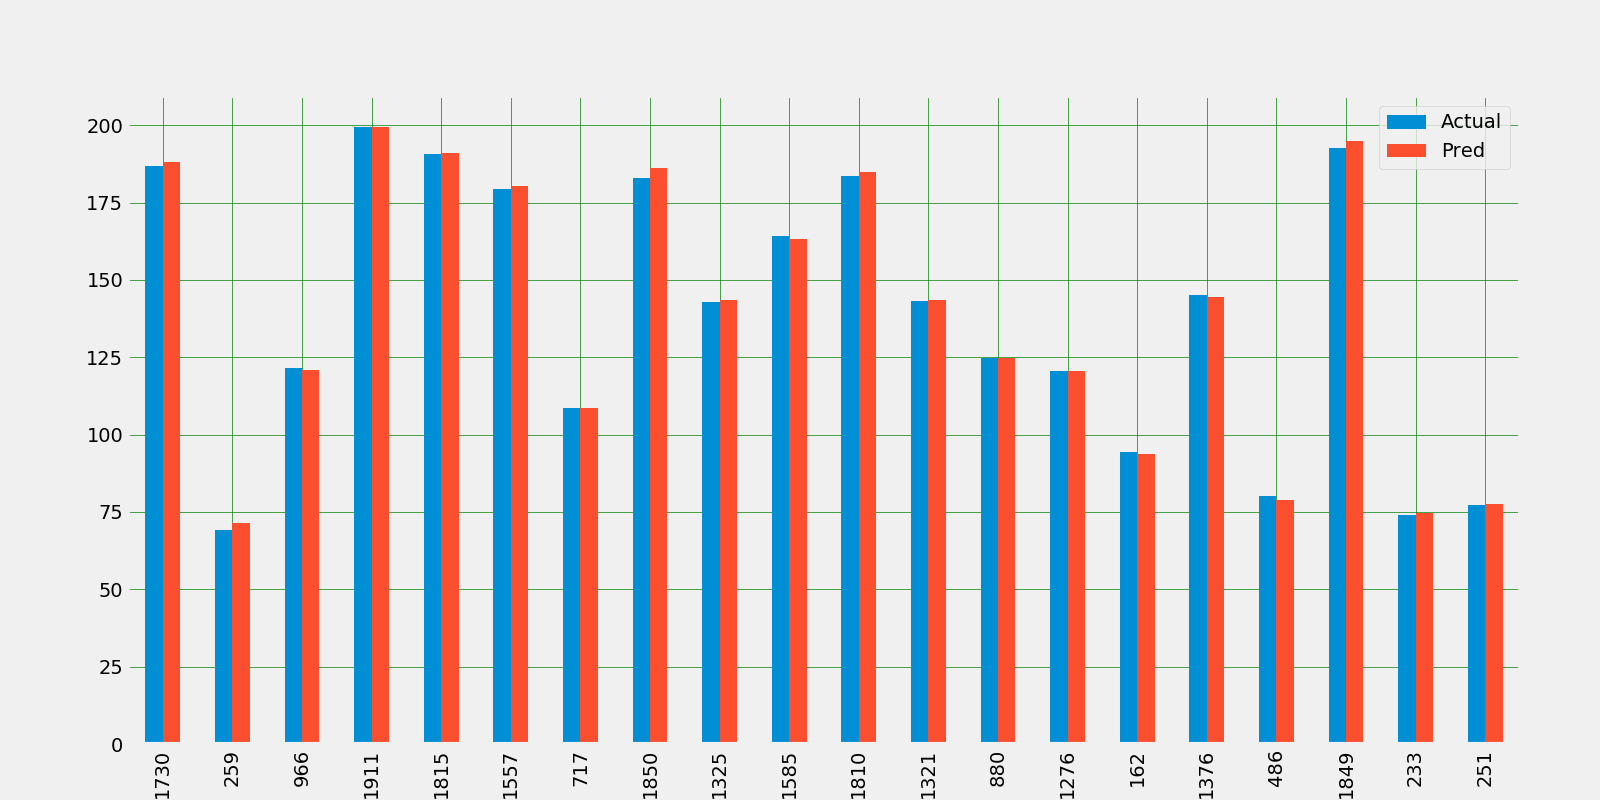
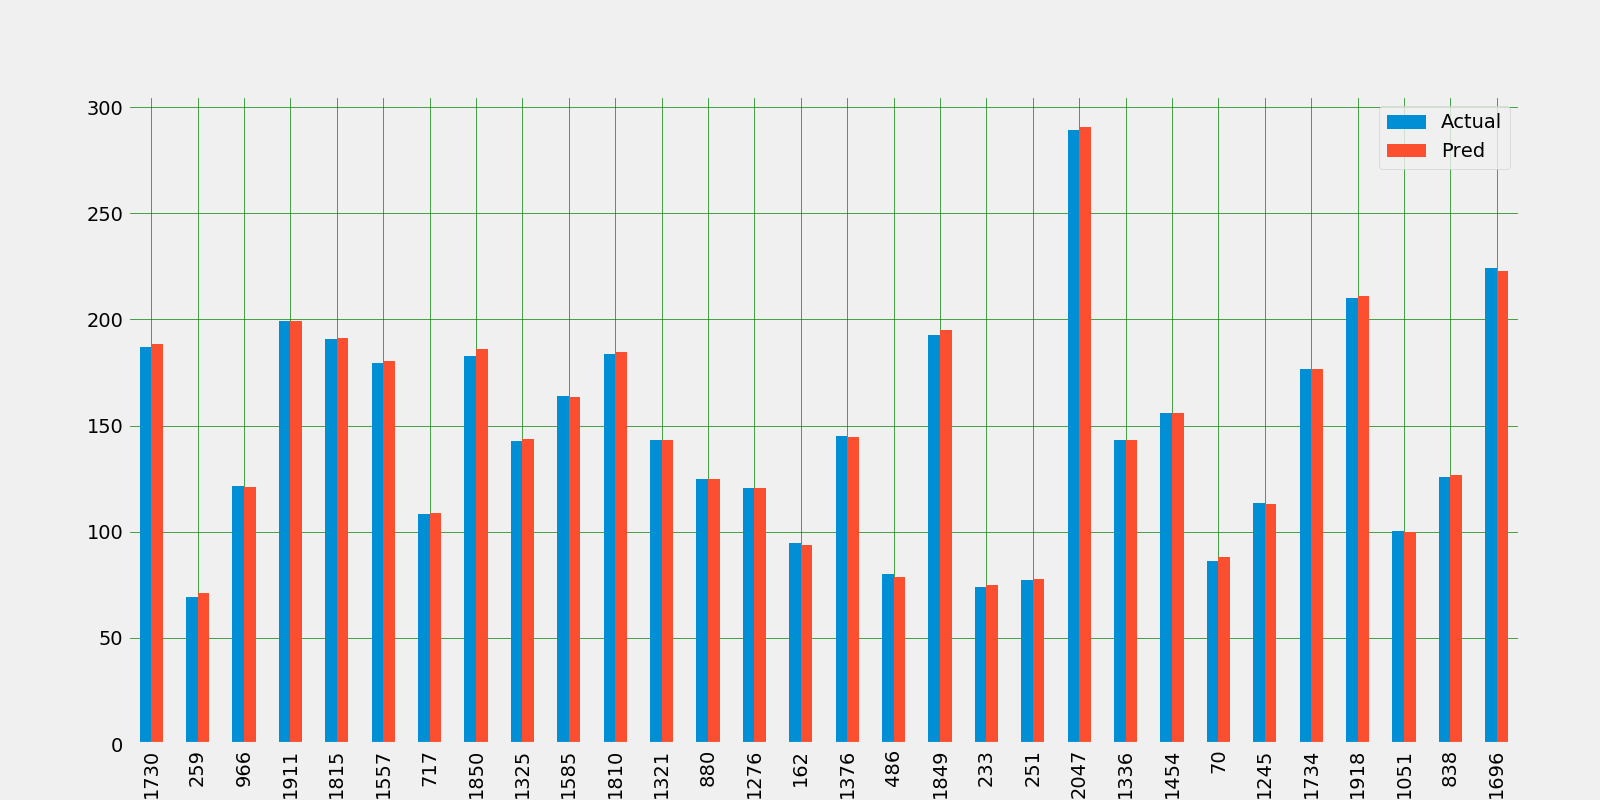
Update README.md

diff --git a/Stock_price_prediction.py b/Stock_price_prediction.py
@@ -146,7 +146,7 @@ print("Accuracy: ", results_kfold.mean()*100)
 
 # Plot Actual vs Predicted Value
 plot_df = pd.DataFrame({'Actual':y_test,'Pred':y_pred})
-plot_df.head(20).plot(kind='bar',figsize=(16,8))
+plot_df.head(30).plot(kind='bar',figsize=(16,8))
 plt.grid(which='major', linestyle='-', linewidth='0.5', color='green')
 plt.grid(which='minor', linestyle=':', linewidth='0.5', color='black')
 #plt.show()
@@ -168,8 +168,26 @@ print("Accuracy: ", results_kfold.mean()*100)
 
 # Plot Actual vs Predicted
 plot_knn_df = pd.DataFrame({'Actual':y_test,'Pred':y_knn_pred})
-plot_knn_df.head(20).plot(kind='bar',figsize=(16,8))
+plot_knn_df.head(30).plot(kind='bar',figsize=(16,8))
 plt.grid(which='major', linestyle='-', linewidth='0.5', color='green')
 plt.grid(which='minor', linestyle=':', linewidth='0.5', color='black')
 #plt.show()
 plt.savefig(os.path.join(images_folder, "10_actualVSpredictedkNN.png"))
+
+# Model 3: SVM Support Vector Machine Regression Model
+
+# SVM Model Training and Testing
+from sklearn.svm import SVR
+svm_regressor = SVR(kernel='linear')
+svm_model = svm_regressor.fit(x_train,y_train)
+y_svm_pred = svm_model.predict(x_test)
+
+# Plot Actual vs Predicted
+plot_svm_df = pd.DataFrame({'Actual':y_test,'Pred':y_svm_pred})
+plot_svm_df.head(30).plot(kind='bar',figsize=(16,8))
+plt.grid(which ='major', linestyle='-', linewidth='0.5', color='green')
+plt.grid(which ='minor', linestyle=':', linewidth='0.5', color='black')
+#plt.show()
+plt.savefig(os.path.join(images_folder, "11_actualVSpredictedSVM.png"))
+
+

diff --git a/README.md b/README.md
@@ -99,3 +99,8 @@ Accuracy: 99.91435220285842
 #### Plot Actual vs Predicted Value of kNN Model
 ![kNN model: Actual Price vs Predicted Value](images/10_actualVSpredictedkNN.png)
 
+### SVM Support Vector Machine Regression Model
+
+#### Plot Actual vs Predicted Value of SVM
+![SVM model: Actual Price vs Predicted Value](images/11_actualVSpredictedSVM.png)
+
